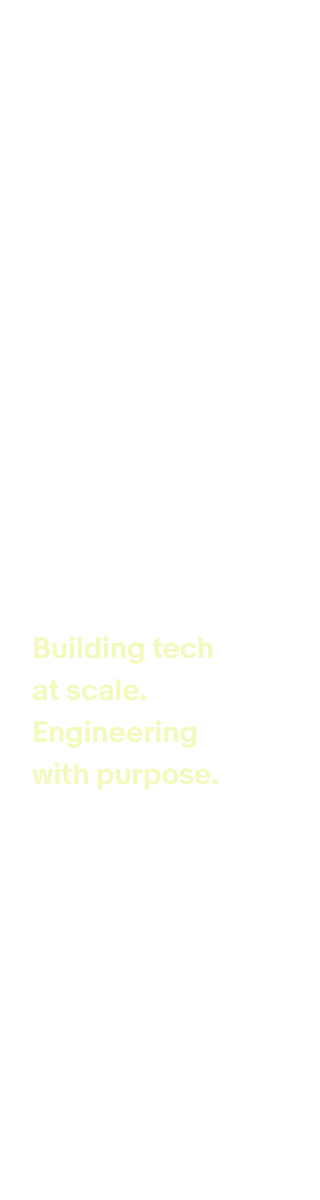
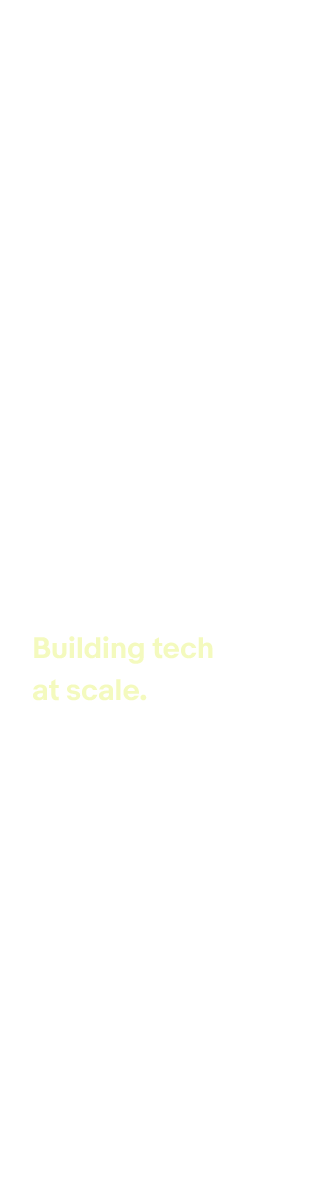
address feedback: improve arrow animation and animate text line by line

Changed region(s): [[0.0938, 0.5858, 0.6562, 0.6783]]

diff --git a/Building_Tech_V1/Ebay_Building_Tech_V1_970x250_EN/assets/js/custom.js b/Building_Tech_V1/Ebay_Building_Tech_V1_970x250_EN/assets/js/custom.js
@@ -34,7 +34,7 @@ function createTimeline(){
     var frame1_ctaArrow = document.querySelectorAll(".content-frame-1 .cta-arrow");
     var frame1_blockText = document.querySelectorAll(".content-frame-1 .block-text");
     
-    tl.set(contentBg, {y:-30});
+    tl.set(contentBg, {x:30});
     tl.set(frame1_contentText, {scale:1.3, x:40, y:40});
     tl.set([frame1_text], {autoAlpha:0, y:10});
     tl.set(frame1_blockText, {scaleX:1.74, scaleY:1.51});
@@ -48,12 +48,12 @@ function createTimeline(){
 
         /* ***** Custom Gsap Timeline ***** */
         tl.addLabel("frame1");
-        tl.to(fullBlock1, {duration:0.8, y:"100%", ease: "power4.out"}, "frame1");
-        tl.to(fullBlock2, {duration:0.8, y:"100%", ease: "power4.out"}, "frame1+=0.1");
-        tl.to(fullBlock3, {duration:0.8, y:"100%", ease: "power4.out"}, "frame1+=0.4");
-        tl.to(fullBlock4, {duration:1, y:"100%", ease: "power4.out"}, "frame1+=0.4");
+        tl.to(fullBlock1, {duration:0.8, x:"-100%", ease: "power4.out"}, "frame1");
+        tl.to(fullBlock2, {duration:0.8, x:"-100%", ease: "power4.out"}, "frame1+=0.1");
+        tl.to(fullBlock3, {duration:0.8, x:"-100%", ease: "power4.out"}, "frame1+=0.4");
+        tl.to(fullBlock4, {duration:1, x:"-100%", ease: "power4.out"}, "frame1+=0.4");
         
-        tl.to(contentBg, {duration:0.8, y:0, ease: "power3.out"}, "frame1+=0.4");
+        tl.to(contentBg, {duration:0.8, x:0, ease: "power3.out"}, "frame1+=0.4");
         
         tl.to(frame1_text, {duration:1, stagger:1, autoAlpha:1, y:0, ease: "power3.out"}, "frame1+=0.4");
         
@@ -66,15 +66,15 @@ function createTimeline(){
 
         
         tl.addLabel("frame3", "+=2.2");
-        tl.to(frame1_ctaArrow, {duration:0.2, scaleX:0.2, autoAlpha:0, x:-5, ease: "power4.out"}, "frame3");
+        tl.to(frame1_ctaArrow, {duration:0.2, scaleX:0.7, autoAlpha:0, x:120, ease: "power4.out"}, "frame3");
         tl.to(frame1_ctaArrow, {duration:0.5, scaleX:1, autoAlpha:1, x:0, ease: "power4.out"}, "frame3+=0.4");
         
         tl.addLabel("frame4", "+=2.2");
-        tl.to(frame1_ctaArrow, {duration:0.2, scaleX:0.2, autoAlpha:0, x:-5, ease: "power4.out"}, "frame4");
+        tl.to(frame1_ctaArrow, {duration:0.2, scaleX:0.7, autoAlpha:0, x:120, ease: "power4.out"}, "frame4");
         tl.to(frame1_ctaArrow, {duration:0.5, scaleX:1, autoAlpha:1, x:0, ease: "power4.out"}, "frame4+=0.4");
         
         tl.addLabel("frame5", "+=2.2");
-        tl.to(frame1_ctaArrow, {duration:0.2, scaleX:0.2, autoAlpha:0, x:-5, ease: "power4.out"}, "frame5");
+        tl.to(frame1_ctaArrow, {duration:0.2, scaleX:0.7, autoAlpha:0, x:120, ease: "power4.out"}, "frame5");
         tl.to(frame1_ctaArrow, {duration:0.5, scaleX:1, autoAlpha:1, x:0, ease: "power4.out"}, "frame5+=0.4");
         
     /* ***** End Coding Here ***** */

diff --git a/Building_Tech_V1/Ebay_Building_Tech_V1_500x500_EN/assets/js/custom.js b/Building_Tech_V1/Ebay_Building_Tech_V1_500x500_EN/assets/js/custom.js
@@ -37,7 +37,8 @@ function createTimeline(){
     tl.set(frame1_contentText, {scale:1.1, x:2, y:12});
     tl.set([frame1_text], {autoAlpha:0, y:-10});
     tl.set(frame1_blockText, {scaleX:1, scaleY:1.5});
-    tl.set([frame1_cta, frame1_ctaArrow], {autoAlpha:0, x:-20});
+    tl.set(frame1_cta, {autoAlpha:0, x:-20});
+    tl.set(frame1_ctaArrow, {autoAlpha:0, x:-10});
 
     /* ***** Base Gsap Timeline ***** */
     tl.to(contentBanner, {duration:0.6, autoAlpha:1, ease: "power2.out"});
@@ -64,15 +65,15 @@ function createTimeline(){
 
         
         tl.addLabel("frame3", "+=2.2");
-        tl.to(frame1_ctaArrow, {duration:0.2, scaleX:0.2, autoAlpha:0, x:-35, force3D:"true", ease: "power4.out"}, "frame3");
+        tl.to(frame1_ctaArrow, {duration:0.2, scaleX:0.7, autoAlpha:0, x:-30, force3D:"true", ease: "power4.out"}, "frame3");
         tl.to(frame1_ctaArrow, {duration:0.5, scaleX:1, autoAlpha:1, x:0, force3D:"true", ease: "power4.out"}, "frame3+=0.4");
         
         tl.addLabel("frame4", "+=2.2");
-        tl.to(frame1_ctaArrow, {duration:0.2, scaleX:0.2, autoAlpha:0, x:-35, force3D:"true", ease: "power4.out"}, "frame4");
+        tl.to(frame1_ctaArrow, {duration:0.2, scaleX:0.7, autoAlpha:0, x:-30, force3D:"true", ease: "power4.out"}, "frame4");
         tl.to(frame1_ctaArrow, {duration:0.5, scaleX:1, autoAlpha:1, x:0, force3D:"true", ease: "power4.out"}, "frame4+=0.4");
         
         tl.addLabel("frame5", "+=2.2");
-        tl.to(frame1_ctaArrow, {duration:0.2, scaleX:0.2, autoAlpha:0, x:-35, force3D:"true", ease: "power4.out"}, "frame5");
+        tl.to(frame1_ctaArrow, {duration:0.2, scaleX:0.7, autoAlpha:0, x:-30, force3D:"true", ease: "power4.out"}, "frame5");
         tl.to(frame1_ctaArrow, {duration:0.5, scaleX:1, autoAlpha:1, x:0, force3D:"true", ease: "power4.out"}, "frame5+=0.4");
         
     /* ***** End Coding Here ***** */

diff --git a/Building_Tech_V1/Ebay_Building_Tech_V1_160x600_EN/assets/js/custom.js b/Building_Tech_V1/Ebay_Building_Tech_V1_160x600_EN/assets/js/custom.js
@@ -37,7 +37,8 @@ function createTimeline(){
     tl.set(frame1_contentText, {scale:1.15, x:10, y:23});
     tl.set([frame1_text], {autoAlpha:0, y:-10});
     tl.set(frame1_blockText, {scaleX:1.18, scaleY:1.6});
-    tl.set([frame1_cta, frame1_ctaArrow], {autoAlpha:0, x:-20});
+    tl.set(frame1_cta, {autoAlpha:0, x:-20});
+    tl.set(frame1_ctaArrow, {autoAlpha:0, x:-10});
 
     /* ***** Base Gsap Timeline ***** */
     tl.to(contentBanner, {duration:0.6, autoAlpha:1, ease: "power2.out"});
@@ -64,15 +65,15 @@ function createTimeline(){
 
         
         tl.addLabel("frame3", "+=2.2");
-        tl.to(frame1_ctaArrow, {duration:0.2, scaleX:0.2, autoAlpha:0, x:78, force3D:"true", ease: "power4.out"}, "frame3");
+        tl.to(frame1_ctaArrow, {duration:0.2, scaleX:0.7, autoAlpha:0, x:10, force3D:"true", ease: "power4.out"}, "frame3");
         tl.to(frame1_ctaArrow, {duration:0.5, scaleX:1, autoAlpha:1, x:0, force3D:"true", ease: "power4.out"}, "frame3+=0.4");
         
         tl.addLabel("frame4", "+=2.2");
-        tl.to(frame1_ctaArrow, {duration:0.2, scaleX:0.2, autoAlpha:0, x:78, force3D:"true", ease: "power4.out"}, "frame4");
+        tl.to(frame1_ctaArrow, {duration:0.2, scaleX:0.7, autoAlpha:0, x:10, force3D:"true", ease: "power4.out"}, "frame4");
         tl.to(frame1_ctaArrow, {duration:0.5, scaleX:1, autoAlpha:1, x:0, force3D:"true", ease: "power4.out"}, "frame4+=0.4");
         
         tl.addLabel("frame5", "+=2.2");
-        tl.to(frame1_ctaArrow, {duration:0.2, scaleX:0.2, autoAlpha:0, x:78, force3D:"true", ease: "power4.out"}, "frame5");
+        tl.to(frame1_ctaArrow, {duration:0.2, scaleX:0.7, autoAlpha:0, x:10, force3D:"true", ease: "power4.out"}, "frame5");
         tl.to(frame1_ctaArrow, {duration:0.5, scaleX:1, autoAlpha:1, x:0, force3D:"true", ease: "power4.out"}, "frame5+=0.4");
         
     /* ***** End Coding Here ***** */

diff --git a/Building_Tech_V1/Ebay_Building_Tech_V1_728x90_EN/assets/js/custom.js b/Building_Tech_V1/Ebay_Building_Tech_V1_728x90_EN/assets/js/custom.js
@@ -46,7 +46,7 @@ function createTimeline(){
     tl.set([frame1_blockCta, frame1_block2, frame1_block3, frame1_block4, frame1_cta], {x:100, y:0});
     tl.set([frame1_text], {autoAlpha:0, x:60});
     tl.set(frame1_blockText, {scaleX:1.74, scaleY:1.51});
-    tl.set(frame1_ctaArrow, {scaleX:0.9, autoAlpha:0, x:0});
+    tl.set(frame1_ctaArrow, {scaleX:1, autoAlpha:0, x:-10});
 
     /* ***** Base Gsap Timeline ***** */
     tl.to(contentBanner, {duration:0.6, autoAlpha:1, ease: "power2.out"});
@@ -75,15 +75,15 @@ function createTimeline(){
 
         
         tl.addLabel("frame3", "+=2.2");
-        tl.to(frame1_ctaArrow, {duration:0.2, scaleX:0.7, autoAlpha:0, x:10, ease: "power4.out"}, "frame3");
+        tl.to(frame1_ctaArrow, {duration:0.2, scaleX:0.7, autoAlpha:0, x:25, ease: "power4.out"}, "frame3");
         tl.to(frame1_ctaArrow, {duration:0.5, scaleX:1, autoAlpha:1, x:0, ease: "power4.out"}, "frame3+=0.4");
         
         tl.addLabel("frame4", "+=2.2");
-        tl.to(frame1_ctaArrow, {duration:0.2, scaleX:0.7, autoAlpha:0, x:10, ease: "power4.out"}, "frame4");
+        tl.to(frame1_ctaArrow, {duration:0.2, scaleX:0.7, autoAlpha:0, x:25, ease: "power4.out"}, "frame4");
         tl.to(frame1_ctaArrow, {duration:0.5, scaleX:1, autoAlpha:1, x:0, ease: "power4.out"}, "frame4+=0.4");
         
         tl.addLabel("frame5", "+=2.2");
-        tl.to(frame1_ctaArrow, {duration:0.2, scaleX:0.7, autoAlpha:0, x:10, ease: "power4.out"}, "frame5");
+        tl.to(frame1_ctaArrow, {duration:0.2, scaleX:0.7, autoAlpha:0, x:25, ease: "power4.out"}, "frame5");
         tl.to(frame1_ctaArrow, {duration:0.5, scaleX:1, autoAlpha:1, x:0, ease: "power4.out"}, "frame5+=0.4");
         
     /* ***** End Coding Here ***** */

diff --git a/Building_Tech_V1/Ebay_Building_Tech_V1_160x600_EN/index.html b/Building_Tech_V1/Ebay_Building_Tech_V1_160x600_EN/index.html
@@ -54,7 +54,7 @@
 			<div class="content-frame content-frame-1">
 				<div class="content-text">
 					<img class="text text-1" src="assets/img/text-1.png">
-					<!-- <img class="text text-2" src="assets/img/text-2.png"> -->
+					<img class="text text-2" src="assets/img/text-2.png">
 				</div>
 				<div class="content-cta">
 					<img class="cta" src="assets/img/cta.png">

diff --git a/Building_Tech_V1/Ebay_Building_Tech_V1_500x500_EN/index.html b/Building_Tech_V1/Ebay_Building_Tech_V1_500x500_EN/index.html
@@ -54,7 +54,7 @@
 			<div class="content-frame content-frame-1">
 				<div class="content-text">
 					<img class="text text-1" src="assets/img/text-1.png">
-					<!-- <img class="text text-2" src="assets/img/text-2.png"> -->
+					<img class="text text-2" src="assets/img/text-2.png">
 				</div>
 				<div class="content-cta">
 					<img class="cta" src="assets/img/cta.png">

diff --git a/Building_Tech_V1/Ebay_Building_Tech_V1_970x250_EN/index.html b/Building_Tech_V1/Ebay_Building_Tech_V1_970x250_EN/index.html
@@ -55,7 +55,7 @@
 			<div class="content-frame content-frame-1">
 				<div class="content-text">
 					<img class="text text-1" src="assets/img/text-1.png">
-					<!-- <img class="text text-2" src="assets/img/text-2.png"> -->
+					<img class="text text-2" src="assets/img/text-2.png">
 				</div>
 				<div class="content-cta">
 					<img class="cta" src="assets/img/cta.png">
